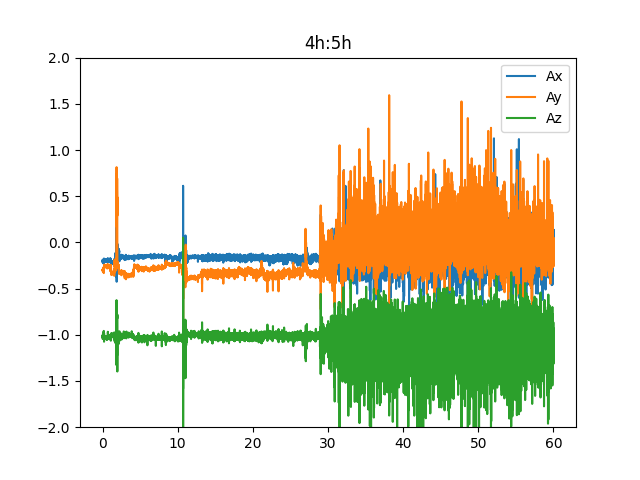
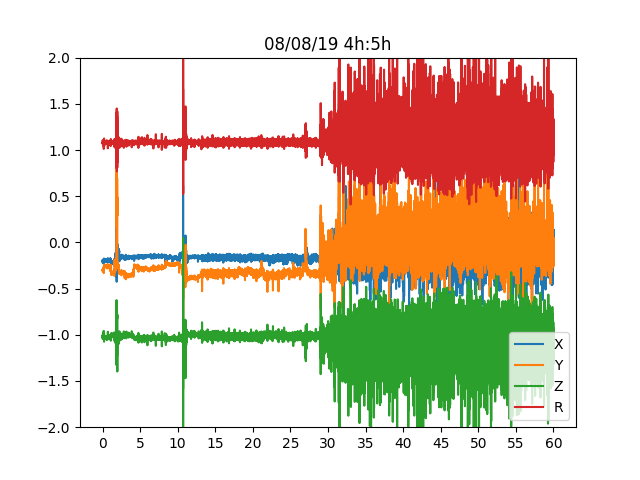
atualizando graficos da acc exp1

diff --git a/main/exp_1/acc_plot_hour.py b/main/exp_1/acc_plot_hour.py
@@ -22,9 +22,11 @@ if __name__ == "__main__":
         plt.plot([(ts[i]-threshold_min)/60000 for i in index], [ax[i] for i in index], label='X')
         plt.plot([(ts[i]-threshold_min)/60000 for i in index], [ay[i] for i in index], label='Y')
         plt.plot([(ts[i]-threshold_min)/60000 for i in index], [az[i] for i in index], label='Z')
+        plt.plot([(ts[i]-threshold_min)/60000 for i in index], [resultant[i] for i in index], label='R')
         plt.title('08/08/19 {}h:{}h'.format(n, n+1))
         plt.ylim(-2, 2)
         plt.xticks(range(0, 61, 5))
         plt.legend()
         #plt.savefig('mestrado/figures/exp1/accelerometer/exp1_acc_{}-{}.png'.format(n, n+1))
+        #plt.close()
         plt.show()
